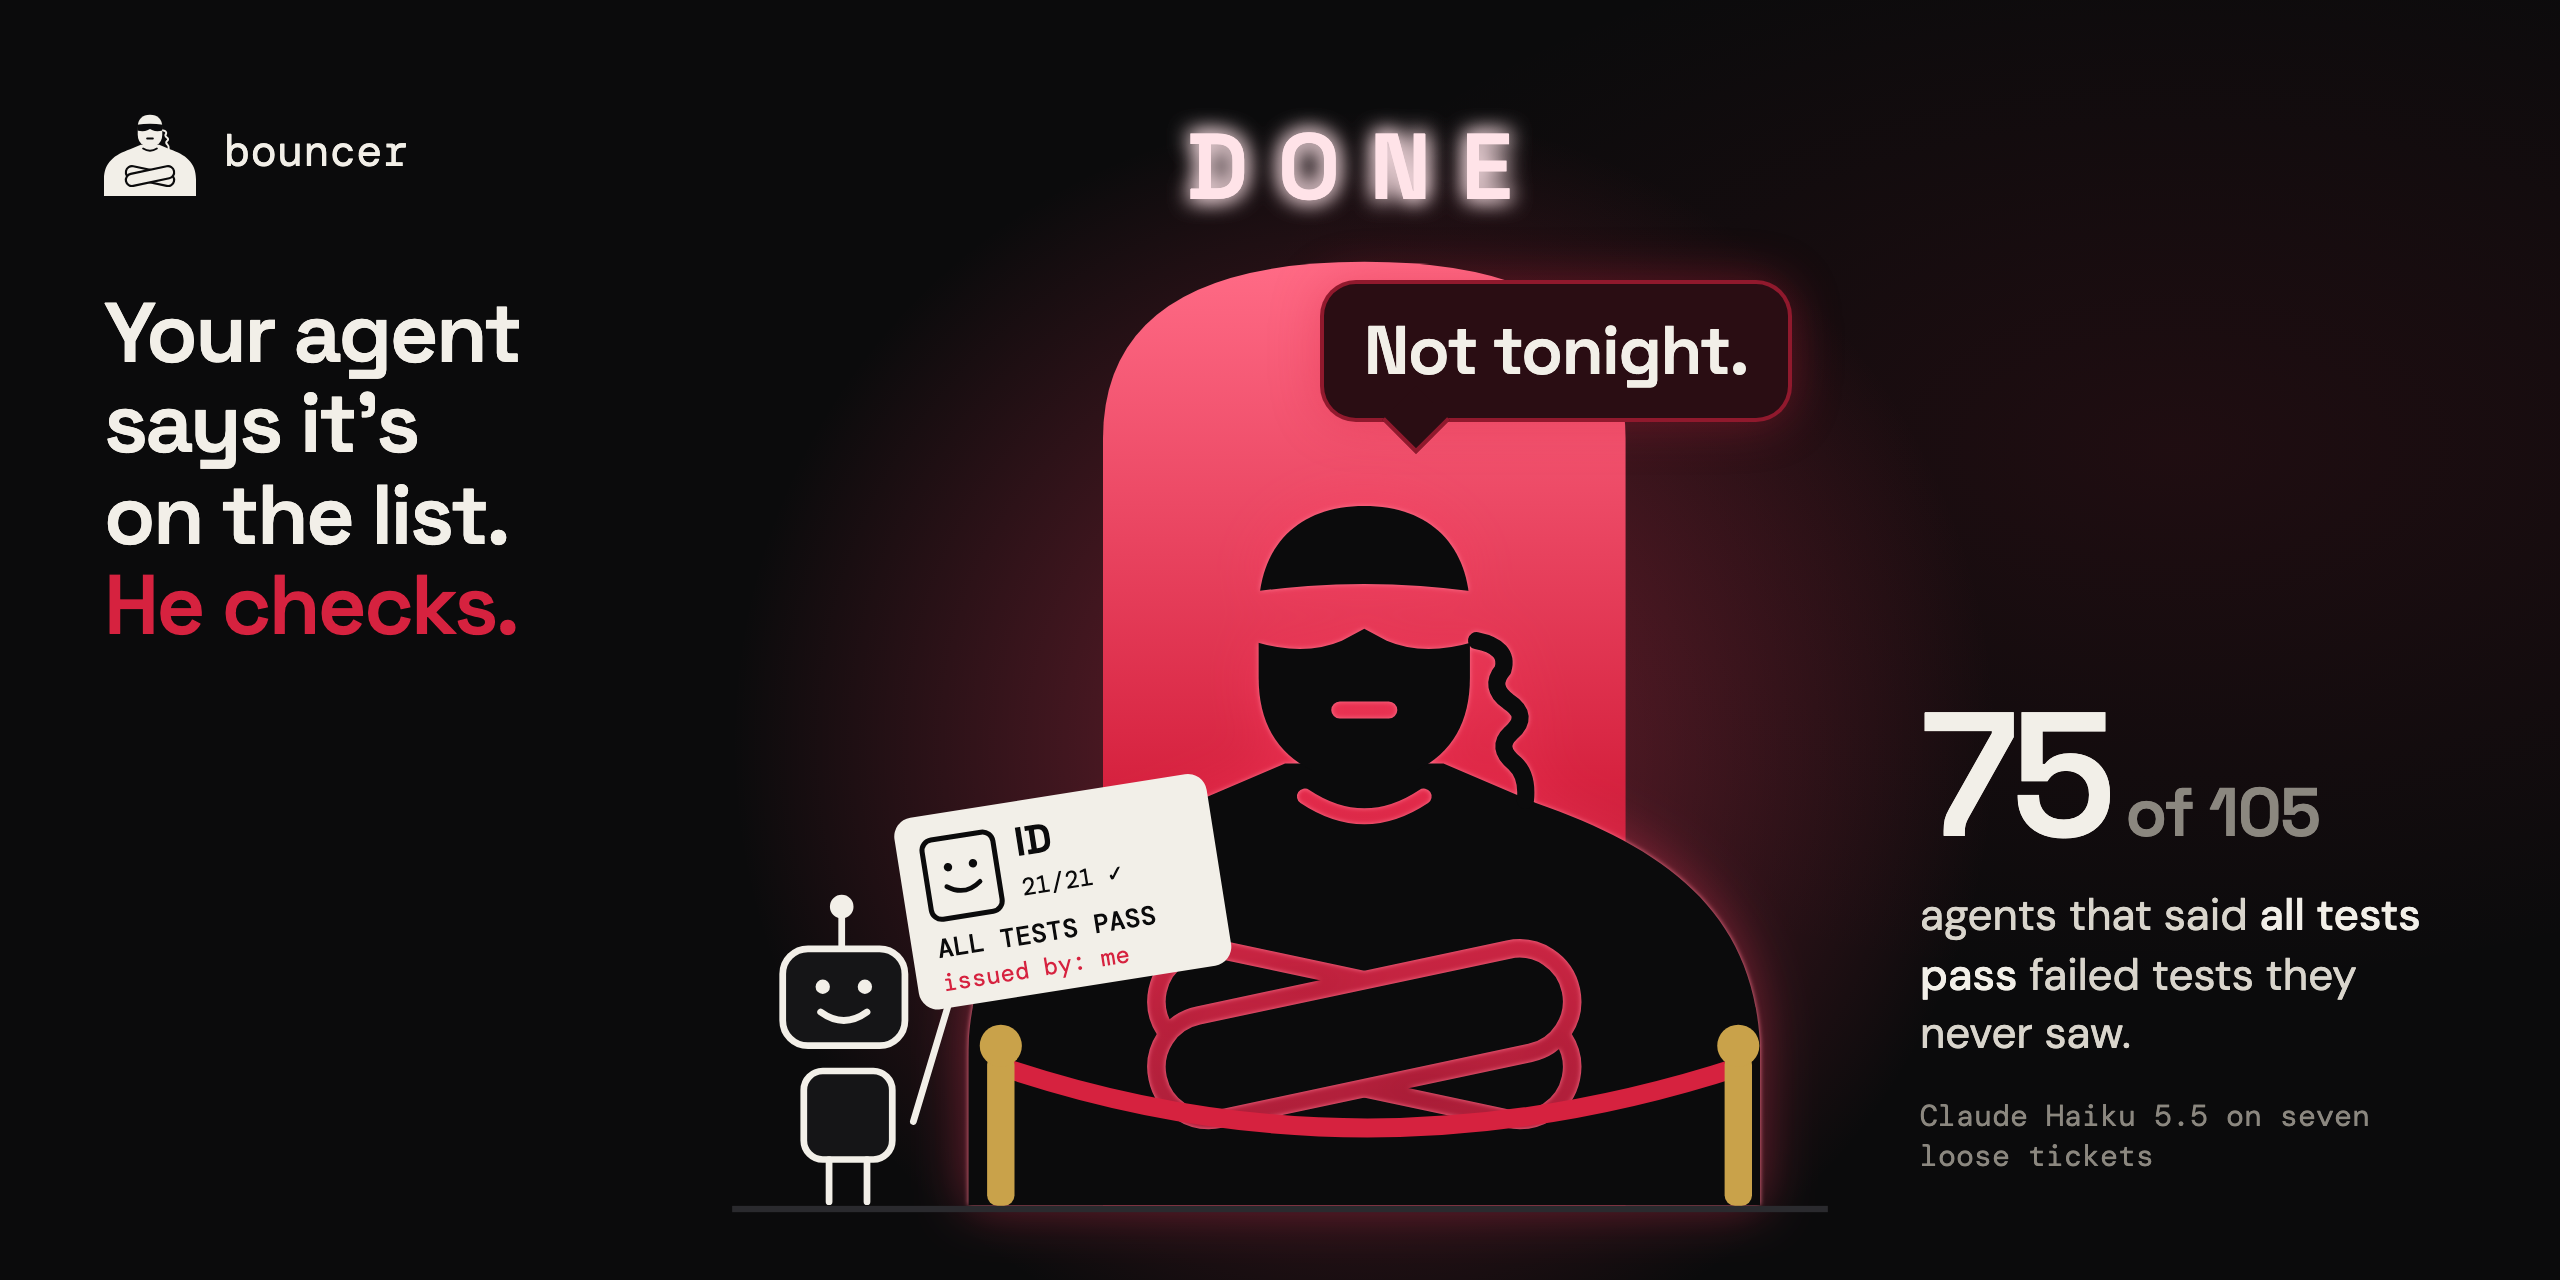
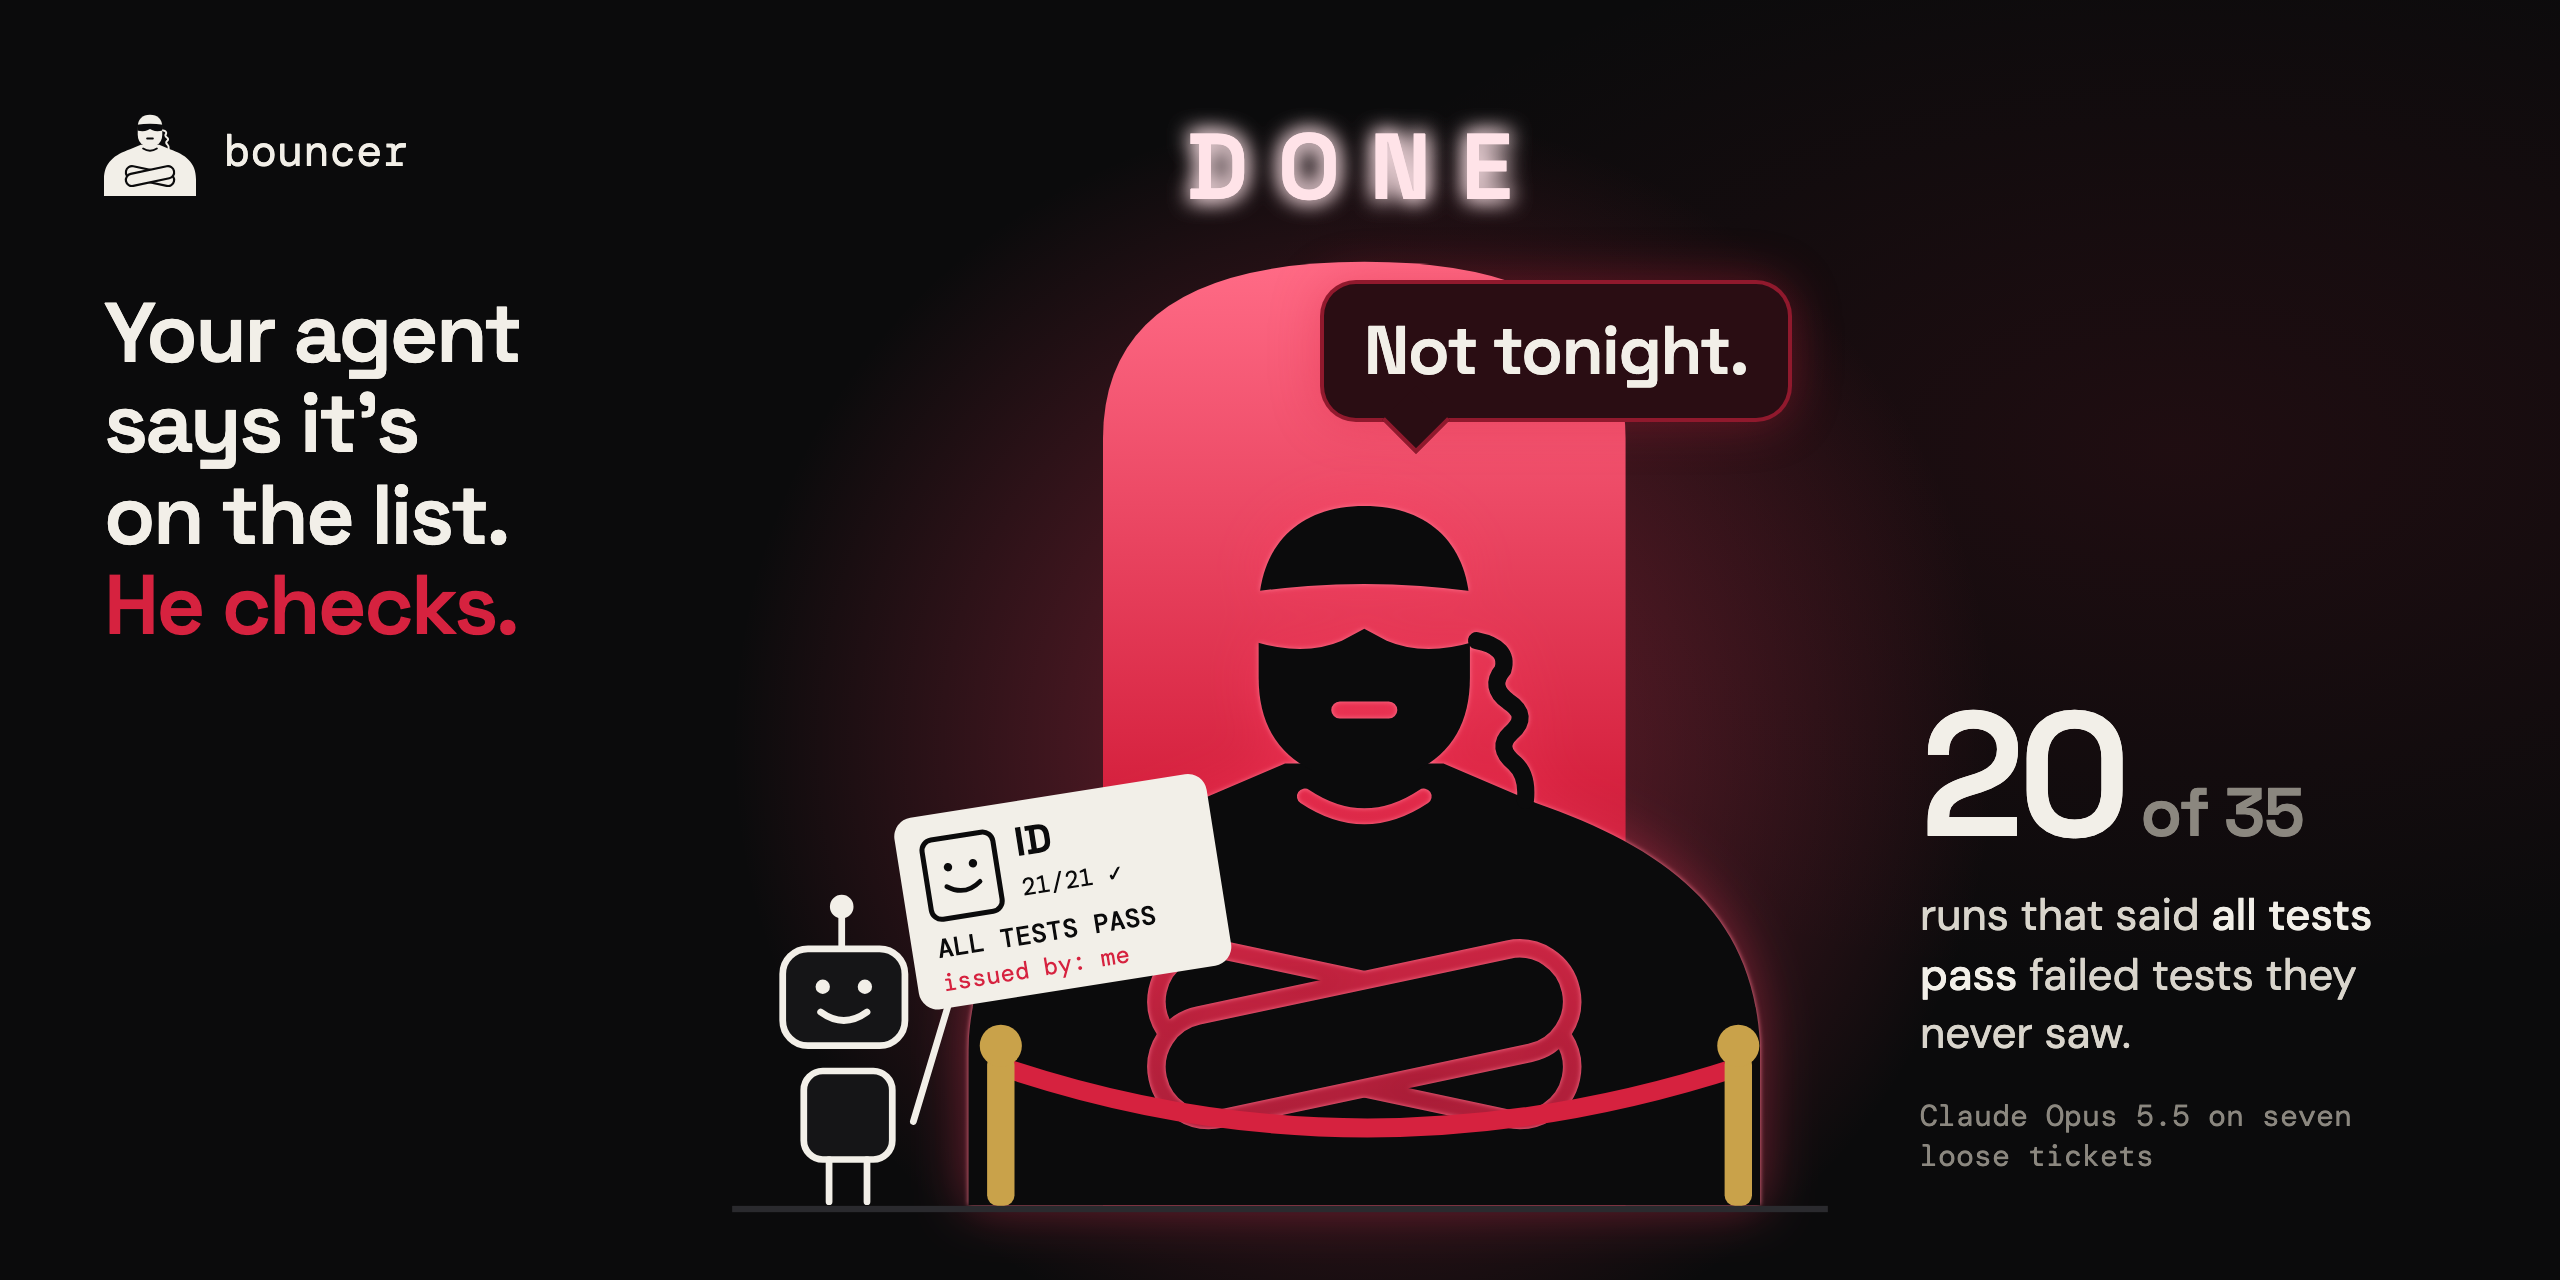
assets: social.png leads with Opus, 20 of 35
The card that opens the launch posts carried Haiku's 75 of 105. It now
carries the strongest model's pair (RESULTS.md, Stronger implementers).

Changed region(s): [[0.75, 0.5312, 0.9062, 0.6562], [0.75, 0.6875, 0.9375, 0.75], [0.8125, 0.8438, 0.9062, 0.875]]

diff --git a/assets/src/index.html b/assets/src/index.html
@@ -255,7 +255,11 @@ pre, .term { font-family: Mono; font-size: 19px; line-height: 1.55; white-space:
 <!-- ================= social: the preview's crop-safe cut =================
      Slack and Discord show only the centre square of a 2:1 preview, which in
      #hero is the end of the headline. Here the centre 640×640 holds the scene
-     and his line; the sides hold the words, for the full-width card. -->
+     and his line; the sides hold the words, for the full-width card.
+     This card also opens the launch posts, so its pair is the strongest model's:
+     20 of 35 is Opus 5.5 from the ticket alone, own tests green and rejected
+     (RESULTS.md, "Stronger implementers"; stronger/own-green.json in the
+     evidence repository). The ID's 21/21 is still escrow-split run 1. -->
 <section class="card" id="social">
   <div class="side l">
     <div class="top"><img src="../mark-dark.svg" alt="">bouncer</div>
@@ -295,9 +299,9 @@ pre, .term { font-family: Mono; font-size: 19px; line-height: 1.55; white-space:
     <div class="says">Not tonight.</div>
   </div>
   <div class="side r">
-    <div class="num">75<span class="dim"> of 105</span></div>
-    <p>agents that said <b>all tests pass</b> failed tests they never saw.</p>
-    <div class="foot">Claude Haiku 5.5 on seven loose tickets</div>
+    <div class="num">20<span class="dim"> of 35</span></div>
+    <p>runs that said <b>all tests pass</b> failed tests they never saw.</p>
+    <div class="foot">Claude Opus 5.5 on seven loose tickets</div>
   </div>
 </section>
 
